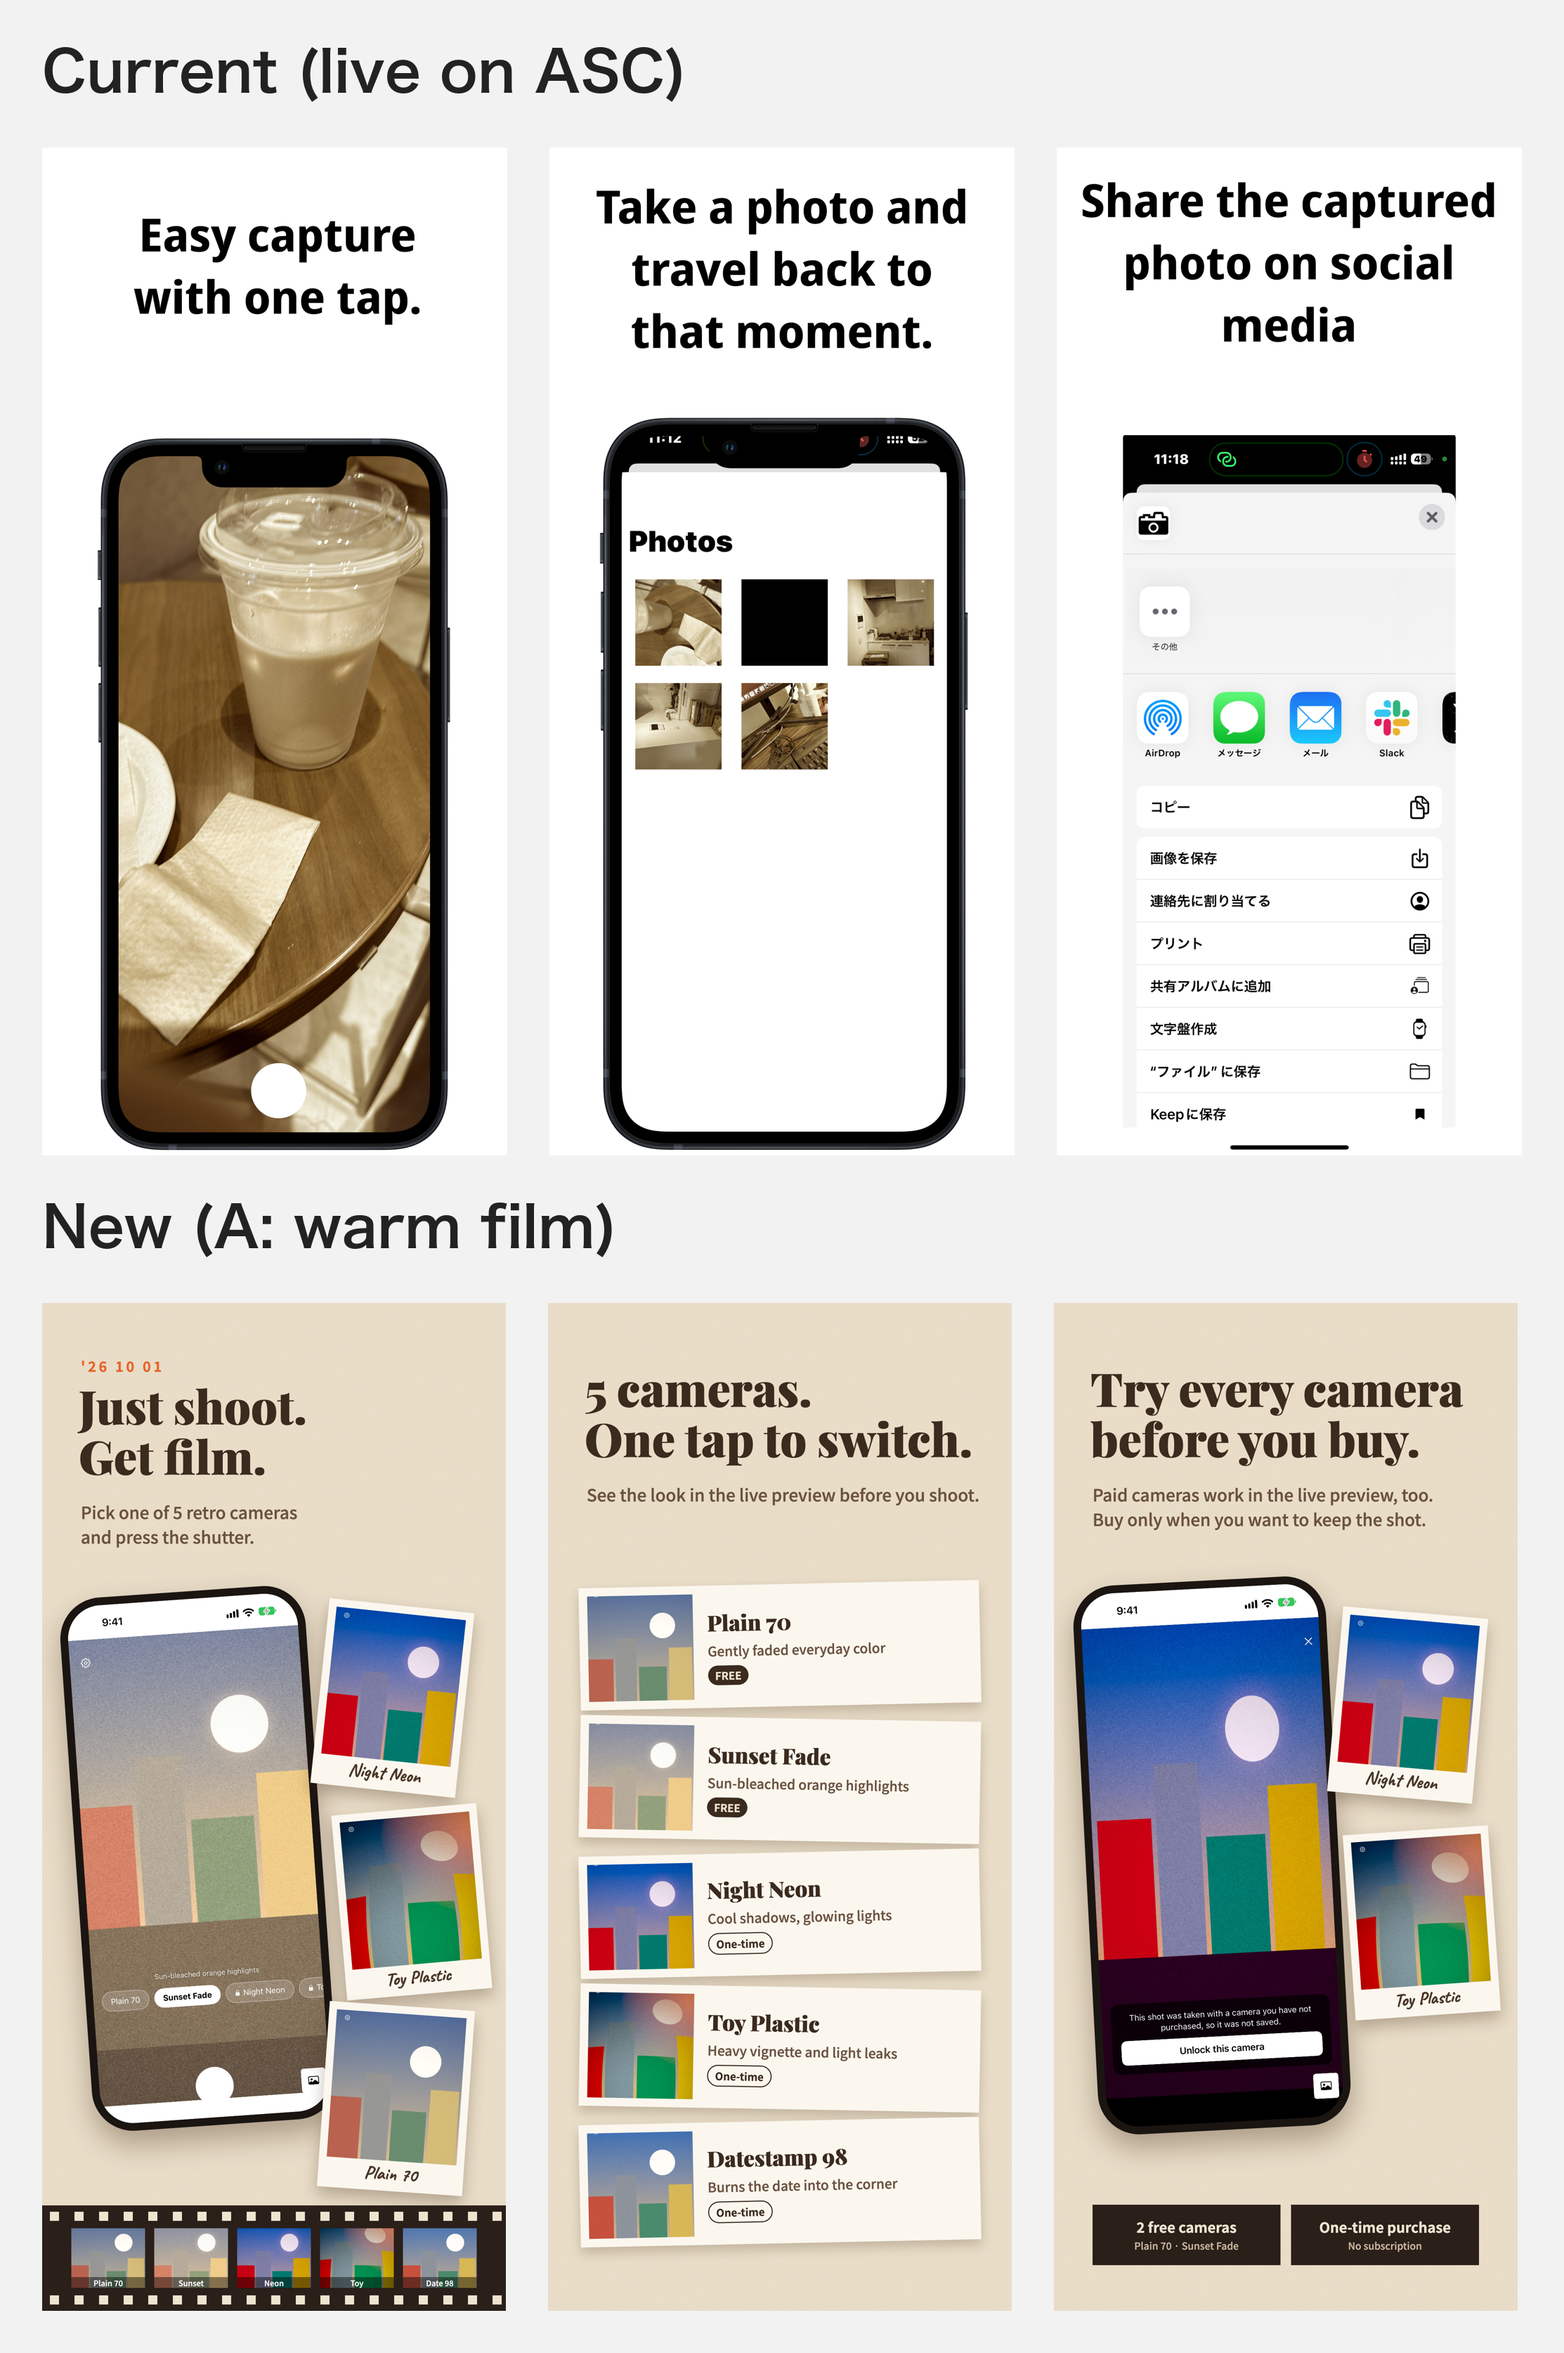
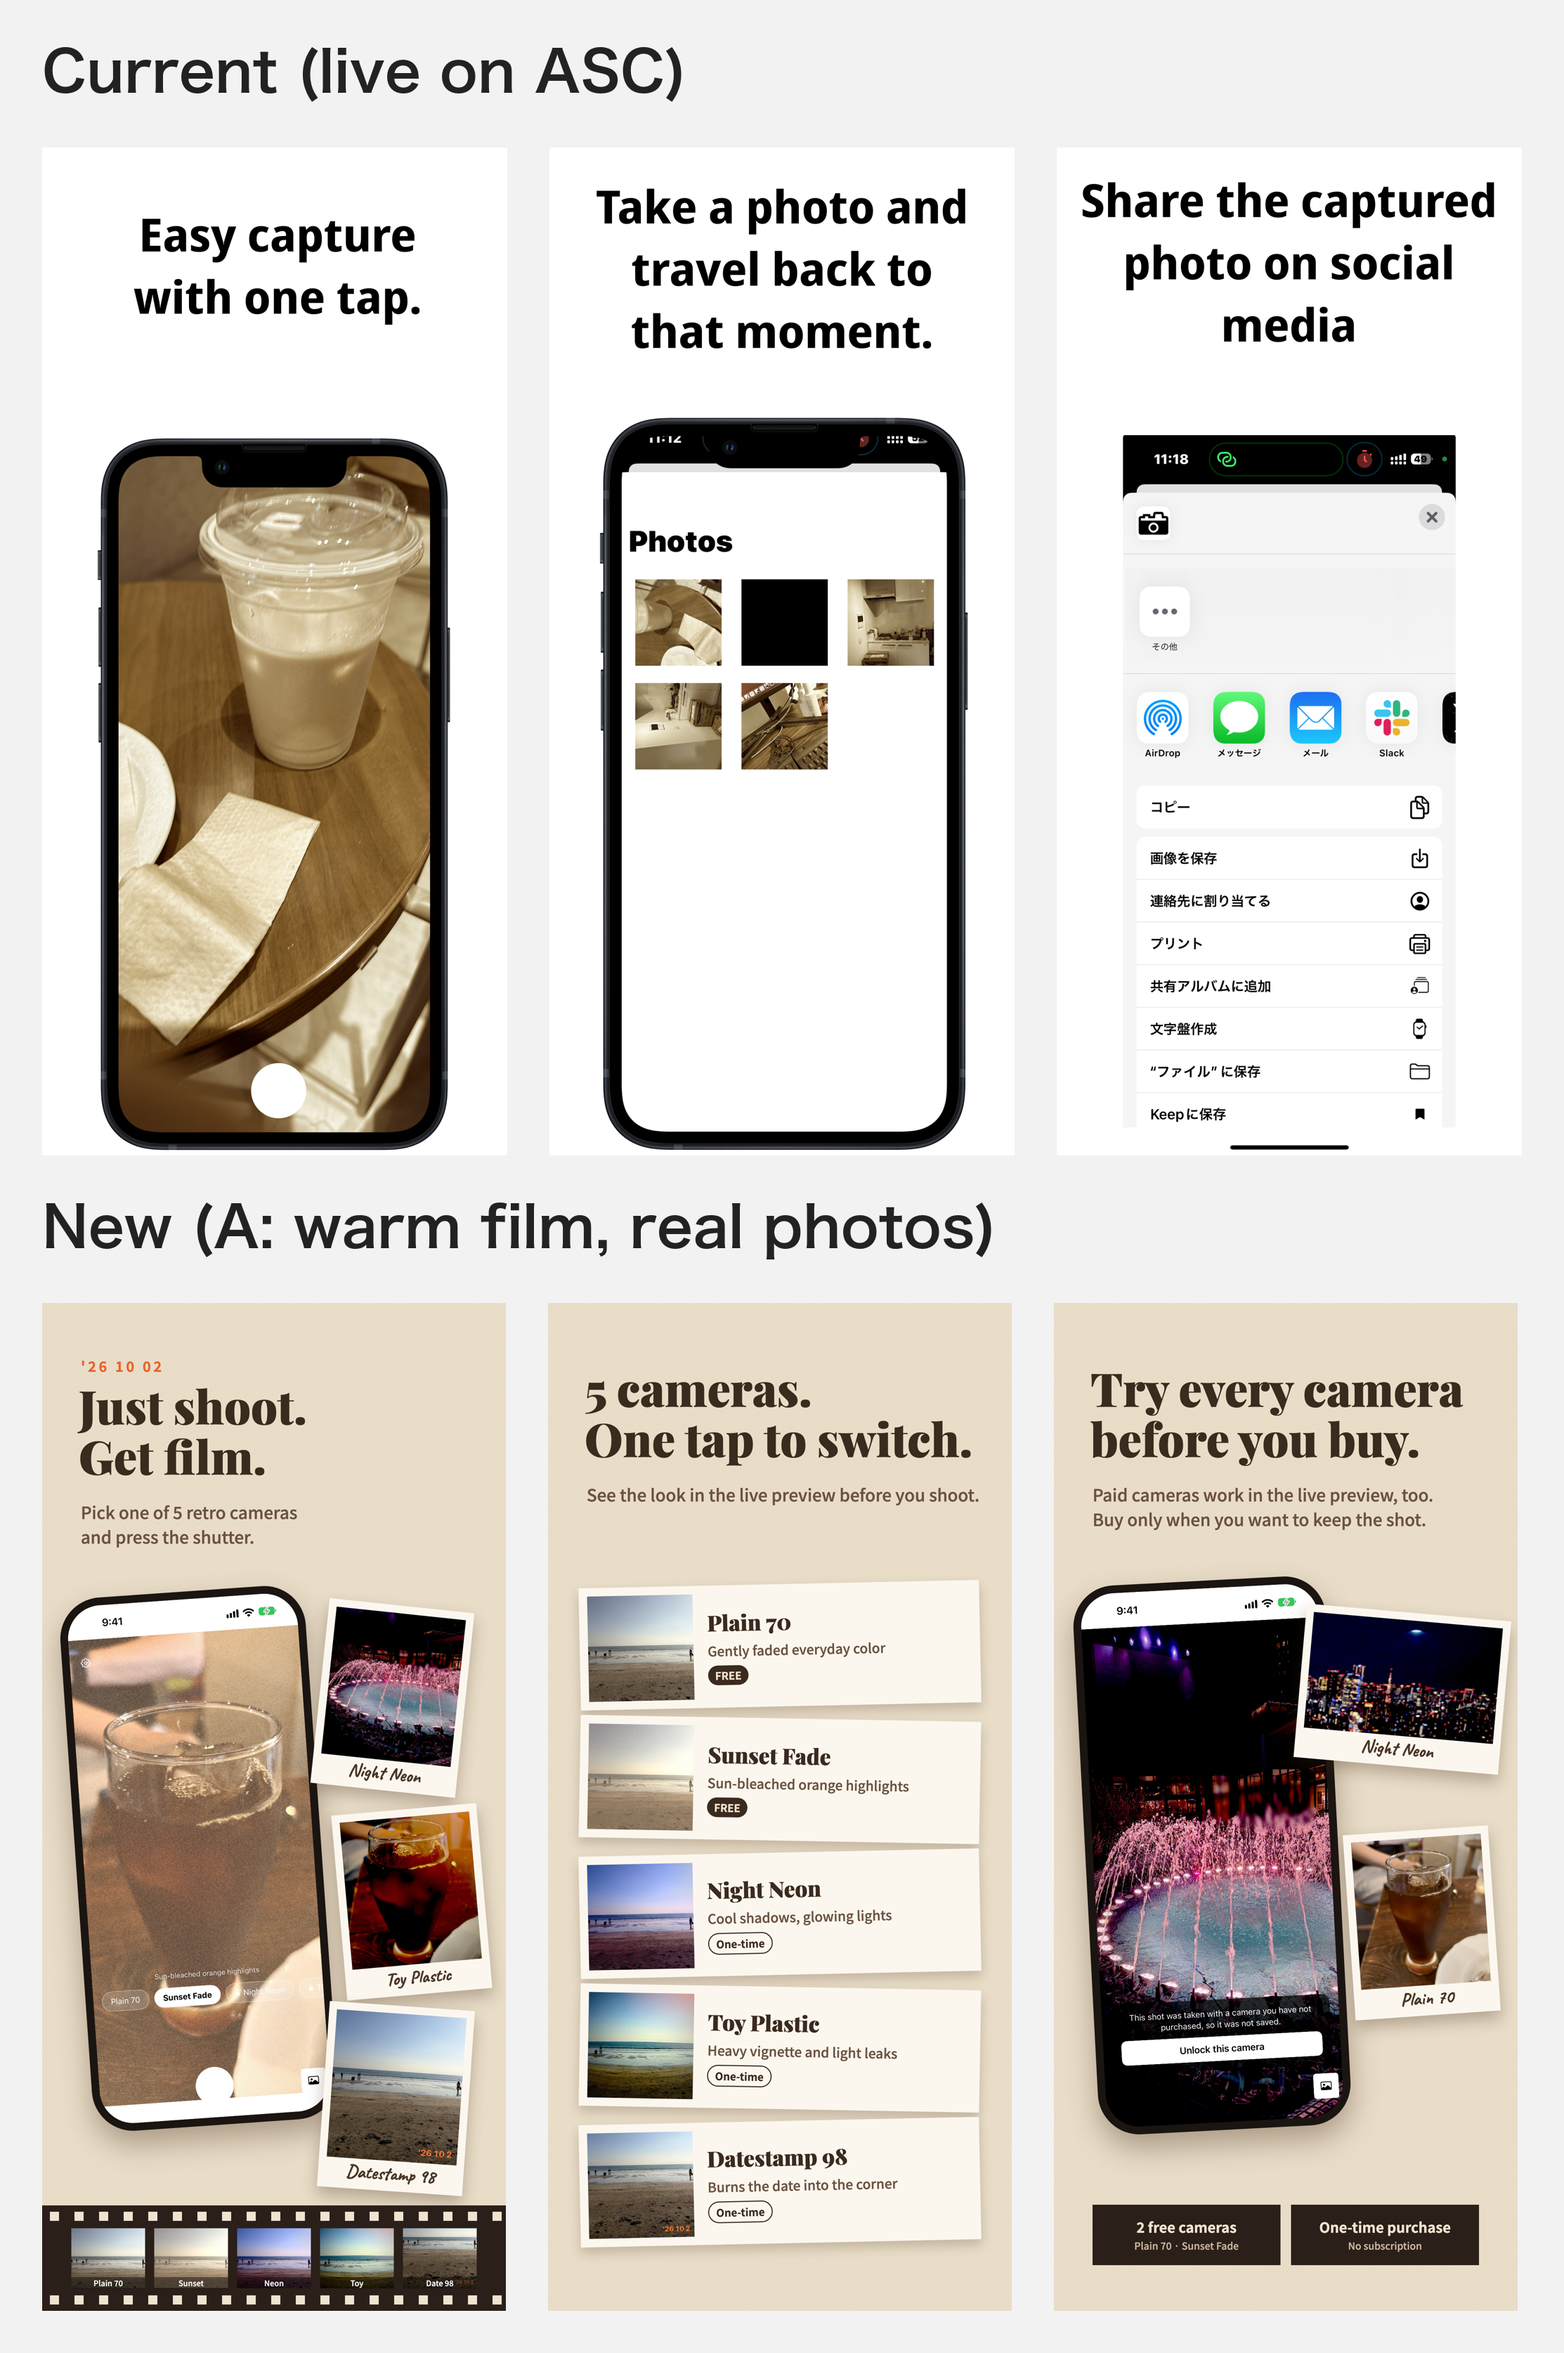
docs: App Store スクショ（A案）の写真を実写に差し替える
- entaku 撮影の 02〜05 を、アプリと同じ FilmRenderer で5台ぶん現像して差し込んだ
  （film-render/main.swift はアプリの Camera ソースをそのままコンパイルして使う）
- 撮影画面も、実写が流れた状態のシミュレータ画面に撮り直した（ja / en-US）
- 01 は他社キャラクターのため不使用。03 は人物と看板をぼかし、04 はロゴ・メニューを外してトリミング
- 元写真は PUBLIC リポジトリなので commit せず .gitignore に入れた
- 新旧比較 compare_{ja,en-US}.png を更新

ASC へのアップロードはしていない。アプリのコードは変更していない。

diff --git a/docs/screenshot_directions/src/a-film-set.html b/docs/screenshot_directions/src/a-film-set.html
@@ -20,6 +20,7 @@
   .phone img{width:100%;height:100%;object-fit:cover;border-radius:96px;display:block}
   .print{position:absolute;background:#fbf7ef;padding:22px 22px 86px;box-shadow:0 22px 44px rgba(60,35,15,.3);width:370px}
   .print img{width:100%;height:420px;object-fit:cover;display:block}
+  .print.wide{width:540px}.print.wide img{height:330px}
   .print span{position:absolute;bottom:22px;left:0;right:0;text-align:center;font-family:"Klee One";font-size:40px;color:#4a3626}
   .en .print span{font-family:Caveat;font-size:52px;bottom:16px}
   .strip{position:absolute;left:0;right:0;bottom:0;height:300px;background:#2a1f19;display:flex;align-items:center;justify-content:center;gap:26px}
@@ -50,7 +51,11 @@
 <div id="root"></div>
 <script>
 const q=new URLSearchParams(location.search), shot=q.get('shot')||'1', lang=q.get('lang')||'ja';
-const S=n=>(lang==='en'?'assets/en/':'assets/')+'screen-'+n+'.jpg', P=n=>'assets/photo-'+n+'.jpg';
+// 実写（entaku 撮影）をアプリと同じ FilmRenderer で現像したもの。R('beach','plain70') → assets/real/beach-plain70.jpg
+const S=n=>'assets/real/'+(lang==='en'?'en':'ja')+'/screen-'+n+'.jpg', R=(photo,cam)=>'assets/real/'+photo+'-'+cam+'.jpg';
+// 日付スタンプは右下、夜景は街が下半分にあるので、切り抜きの基準をずらす
+const POS={'beach-datestamp98':'right bottom','shibuya-nightneon':'center bottom','shibuya-plain70':'center 85%'};
+const I=(photo,cam)=>`<img src="${R(photo,cam)}" style="object-position:${POS[photo+'-'+cam]||'center'}">`;
 const T={
  ja:{h1:'撮るだけで、<br>フィルム写真。',sub1:'5つのレトロカメラから選んで<br>シャッターを押すだけ。',
      h2:'5台のカメラを、<br>タップで切り替え。',sub2:'写りはライブプレビューで確かめられる。',
@@ -68,20 +73,20 @@ const T={
      tag:{plain70:'Gently faded everyday color',sunsetfade:'Sun-bleached orange highlights',nightneon:'Cool shadows, glowing lights',toyplastic:'Heavy vignette and light leaks',datestamp98:'Burns the date into the corner'}}
 }[lang];
 const cams=['plain70','sunsetfade','nightneon','toyplastic','datestamp98'], freeCams=['plain70','sunsetfade'];
-const strip='<div class="strip">'+cams.map(c=>`<div><img src="${P(c)}"><b>${T.short[c]}</b></div>`).join('')+'</div>';
+const strip='<div class="strip">'+cams.map(c=>`<div>${I('beach',c)}<b>${T.short[c]}</b></div>`).join('')+'</div>';
 const html={
- '1':`<div class="stamp">'26 10 01</div><h1>${T.h1}</h1><div class="sub">${T.sub1}</div>
-   <div class="phone" style="left:96px;top:820px;transform:rotate(-4deg)"><img src="${S('sunsetfade')}"></div>
-   <div class="print" style="left:790px;top:860px;transform:rotate(6deg)"><img src="${P('nightneon')}"><span>${T.names.nightneon}</span></div>
-   <div class="print" style="left:845px;top:1440px;transform:rotate(-5deg)"><img src="${P('toyplastic')}"><span>${T.names.toyplastic}</span></div>
-   <div class="print" style="left:800px;top:2000px;transform:rotate(4deg)"><img src="${P('plain70')}"><span>${T.names.plain70}</span></div>${strip}`,
+ '1':`<div class="stamp">'26 10 02</div><h1>${T.h1}</h1><div class="sub">${T.sub1}</div>
+   <div class="phone" style="left:96px;top:820px;transform:rotate(-4deg)"><img src="${S('cafe-sunsetfade')}"></div>
+   <div class="print" style="left:790px;top:860px;transform:rotate(6deg)">${I('fountain','nightneon')}<span>${T.names.nightneon}</span></div>
+   <div class="print" style="left:845px;top:1440px;transform:rotate(-5deg)">${I('cafe','toyplastic')}<span>${T.names.toyplastic}</span></div>
+   <div class="print" style="left:800px;top:2000px;transform:rotate(4deg)">${I('beach','datestamp98')}<span>${T.names.datestamp98}</span></div>${strip}`,
  '2':`<h1 style="top:170px;${lang==='ja'?'font-size:116px;right:40px':''}">${T.h2}</h1><div class="sub" style="top:510px">${T.sub2}</div>
-   <div class="cards">`+cams.map(c=>`<div class="card"><img src="${P(c)}"><div><h3>${T.names[c]}</h3><p>${T.tag[c]}</p>
+   <div class="cards">`+cams.map(c=>`<div class="card">${I('beach',c)}<div><h3>${T.names[c]}</h3><p>${T.tag[c]}</p>
      <span class="tag ${freeCams.includes(c)?'free':'paid'}">${freeCams.includes(c)?T.free:T.paid}</span></div></div>`).join('')+`</div>`,
  '3':`<h1 style="top:170px">${T.h3}</h1><div class="sub" style="top:510px">${T.sub3}</div>
-   <div class="phone" style="left:90px;top:790px;width:720px;height:1564px;transform:rotate(-3deg)"><img src="${S('locked-notice')}"></div>
-   <div class="print" style="left:800px;top:880px;transform:rotate(5deg)"><img src="${P('nightneon')}"><span>${T.names.nightneon}</span></div>
-   <div class="print" style="left:840px;top:1500px;transform:rotate(-4deg)"><img src="${P('toyplastic')}"><span>${T.names.toyplastic}</span></div>
+   <div class="phone" style="left:90px;top:790px;width:720px;height:1564px;transform:rotate(-3deg)"><img src="${S('fountain-locked-notice')}"></div>
+   <div class="print wide" style="left:700px;top:880px;transform:rotate(5deg)">${I('shibuya','nightneon')}<span>${T.names.nightneon}</span></div>
+   <div class="print" style="left:840px;top:1500px;transform:rotate(-4deg)">${I('cafe','plain70')}<span>${T.names.plain70}</span></div>
    <div class="notes"><div>${T.n1[0]}<small>${T.n1[1]}</small></div><div>${T.n2[0]}<small>${T.n2[1]}</small></div></div>`
 }[shot];
 document.documentElement.lang=lang==='en'?'en':'ja';

diff --git a/docs/screenshot_directions/film-render/main.swift b/docs/screenshot_directions/film-render/main.swift
@@ -1,0 +1,15 @@
+import UIKit
+// アプリの FilmRenderer / CameraCatalog をそのまま使って現像する（スクショ素材用・作業ディレクトリ専用）
+let args = CommandLine.arguments
+let srcDir = args[1], outDir = args[2]
+var comps = DateComponents(); comps.year = 2026; comps.month = 10; comps.day = 2; comps.hour = 18
+let date = Calendar(identifier: .gregorian).date(from: comps)!
+for name in ["cafe", "fountain", "shibuya", "beach"] {
+    guard let img = UIImage(contentsOfFile: "\(srcDir)/\(name).jpg") else { print("missing", name); continue }
+    for spec in CameraCatalog.all {
+        guard let out = FilmRenderer.shared.render(img, with: spec, capturedAt: date),
+              let data = out.jpegData(compressionQuality: 0.93) else { print("fail", name, spec.id.rawValue); continue }
+        try! data.write(to: URL(fileURLWithPath: "\(outDir)/\(name)-\(spec.id.rawValue).jpg"))
+        print("ok", name, spec.id.rawValue, out.size)
+    }
+}

diff --git a/docs/aso_2026-10.md b/docs/aso_2026-10.md
@@ -531,3 +531,16 @@ Datestamp 98 burns an orange date into the corner, like a 90s point-and-shoot.
 - **デートスタンプ98のライブプレビューで、日付が右端で切れ、ギャラリーボタンにも隠れる**（`'26 10 2…`）。保存される写真は別の可能性があるが、プレビューで日付が見えないと「日付入り」を見せられない。スクショでは日付の見せ場を作れなかった
 - 既存の UI テストはギャラリー画面を書き出さないので、ギャラリーの1枚は作れなかった
 - 実写（権利のはっきりしたもの）に差し替えれば、1〜3枚目の訴求はそのまま強くなる。差し込み口は `fastlane/screenshots/source/photos/`
+
+### 6-2. 実写に差し替え（2026-10-02）
+
+entaku 撮影の写真で、仮素材（シミュレータのイラスト）をすべて差し替えた。写真の写りは、アプリと同じ `FilmRenderer` で実際に現像したもの（手順と前処理は `screenshot_directions/film-render/README.md`）。
+
+| 枚目 | 使った写真 |
+|---|---|
+| 1 | 撮影画面: カフェ×サンセットフェード / プリント: 噴水×ナイトネオン、カフェ×トイプラスチック、海辺×デートスタンプ98 / フィルム帯: 海辺×5台 |
+| 2 | 5台のカードはすべて海辺（同じ景色で写りの違いを見せる） |
+| 3 | 撮影画面: 噴水×ナイトネオン（未購入） / プリント: 渋谷夜景×ナイトネオン、カフェ×プレーン70 |
+
+- 01（他社キャラクター）は不使用。03 は人物と看板をぼかし、04 はロゴ・メニューを含まない範囲にトリミング
+- 保存される写真では日付スタンプが右下に全部写る（`'26 10 2`）。切れるのはライブプレビューの表示だけ

diff --git a/docs/screenshot_directions/film-render/README.md b/docs/screenshot_directions/film-render/README.md
@@ -1,0 +1,29 @@
+# 実写の現像（スクショ素材用）
+
+アプリの `FilmRenderer` / `CameraCatalog` をそのまま使って、写真を5台のカメラで現像する。
+CoreImage のパラメータはアプリと同一（同じソースファイルをコンパイルしている）。
+
+```bash
+R=RetroSnap
+SDK=$(xcrun --sdk iphonesimulator --show-sdk-path)
+xcrun --sdk iphonesimulator swiftc -O -target arm64-apple-ios26.0-simulator -sdk $SDK -o filmcli \
+  docs/screenshot_directions/film-render/main.swift \
+  $R/Camera/FilmRenderer.swift $R/Camera/CameraSpec.swift $R/Camera/CameraCatalog.swift $R/Image+extention.swift
+xcrun simctl spawn <booted-device> ./filmcli <src_dir> <out_dir>   # src_dir に cafe/fountain/shibuya/beach.jpg
+```
+
+入力はぼかし・トリミング済みのもの（下記）。日付は 2026-10-02 で焼き込む。
+
+| 元写真 (`fastlane/screenshots/source/photos/`) | 前処理 |
+|---|---|
+| 01 キャラのキーリング | **使わない**（他社キャラクター） |
+| 02 カフェ | なし（腕は小さく顔は写っていない） |
+| 03 夜の噴水 | 奥の人物の帯と店の看板をぼかし（顔が判別できたため） |
+| 04 渋谷の夜景 | 右上の夜景だけをトリミング（ロゴのプレート・メニュー・ボトルを含めない） |
+| 05 海辺 | なし（小さな後ろ姿のみ） |
+
+元写真はリポジトリが PUBLIC のため commit しない（`.gitignore` 済み）。
+
+撮影画面（`src/assets/real/{ja,en}/screen-*.jpg`）は、`SamplePreviewFrame.makeImage` を一時的に
+「UserDefaults `RetroSnapSampleImagePath` の写真を返す」よう差し替えて UI テスト
+（`RETROSNAP_SCREENSHOT_DIR`）で書き出したもの。差し替えは撮影後に戻しており、commit していない。
